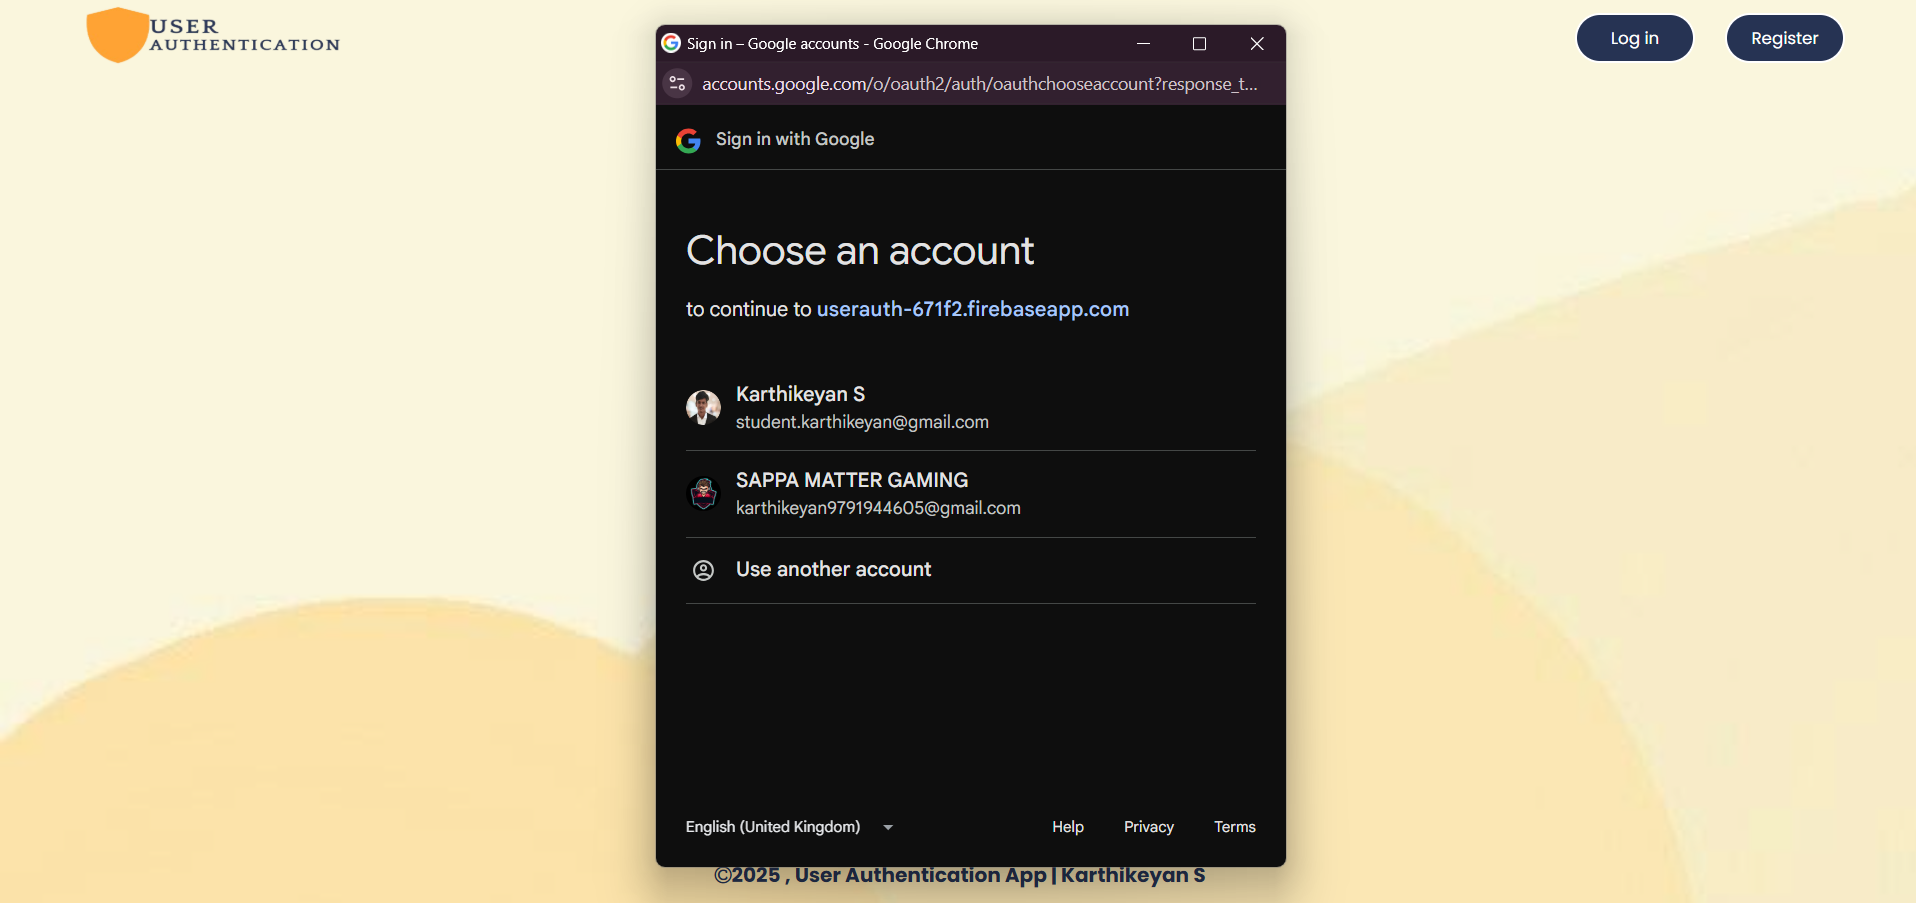
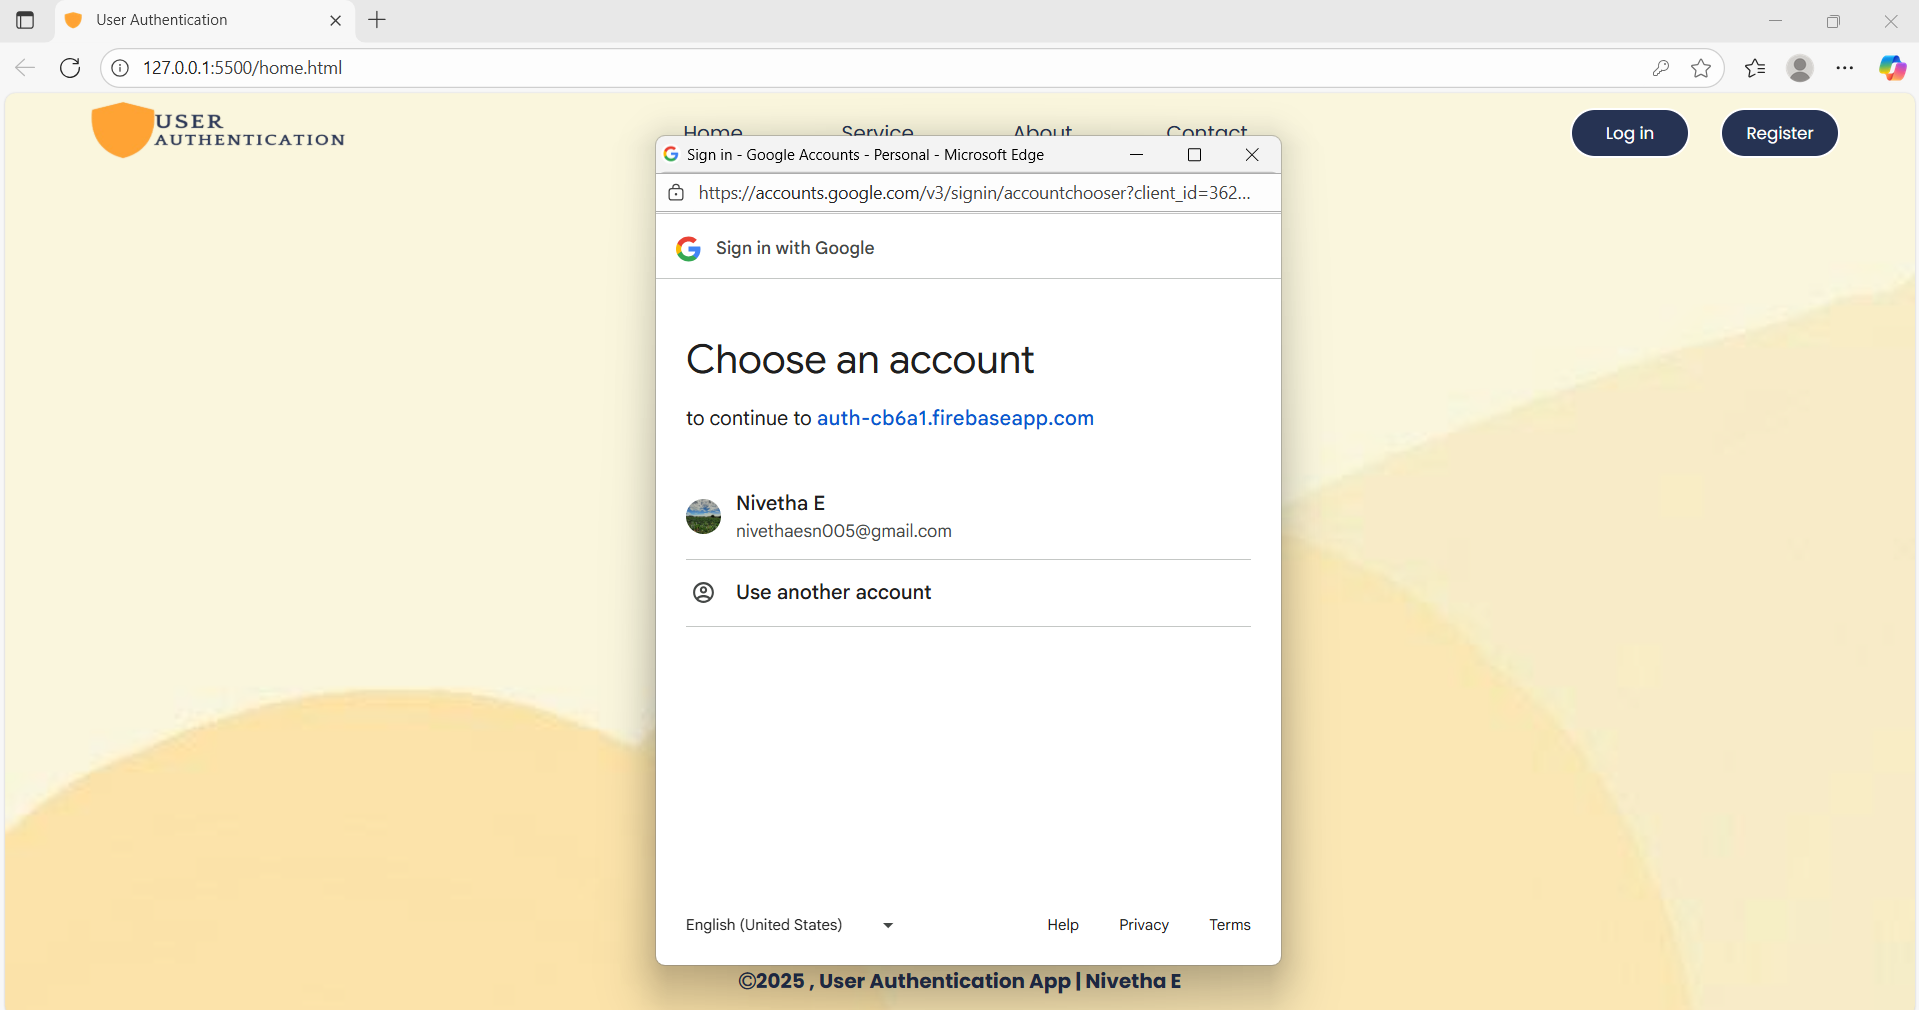
Updated Files

diff --git a/Register.js b/Register.js
@@ -2,12 +2,12 @@ import { initializeApp } from "https://www.gstatic.com/firebasejs/11.6.0/firebas
 import { getAuth, createUserWithEmailAndPassword,GoogleAuthProvider,signInWithPopup } from "https://www.gstatic.com/firebasejs/11.6.0/firebase-auth.js";
 
 const firebaseConfig = {
-apiKey: "AIzaSyDrq_xGtryRBhMP1LykLOT9_xFRPlSR6qY",
-authDomain: "userauth-671f2.firebaseapp.com",
-projectId: "userauth-671f2",
-storageBucket: "userauth-671f2.firebasestorage.app",
-messagingSenderId: "164942403243",
-appId: "1:164942403243:web:d07db5579b62d6d2a109ee"
+apiKey: "AIzaSyApO2rk8lNiMo5B_Qm7VQO8CgtxpPe7Yxs",
+authDomain: "auth-cb6a1.firebaseapp.com",
+projectId: "auth-cb6a1",
+storageBucket: "auth-cb6a1.firebasestorage.app",
+messagingSenderId: "362305358589",
+appId: "1:362305358589:web:062c0e9540786a44f28c94"
 };
 
 const app = initializeApp(firebaseConfig);
